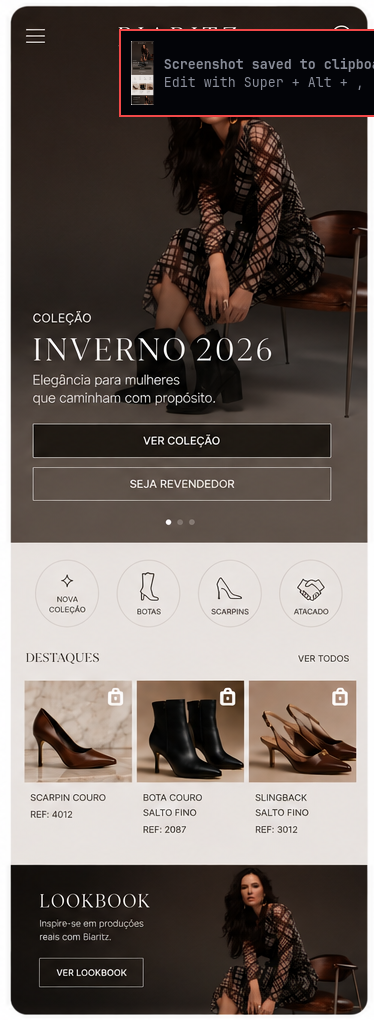
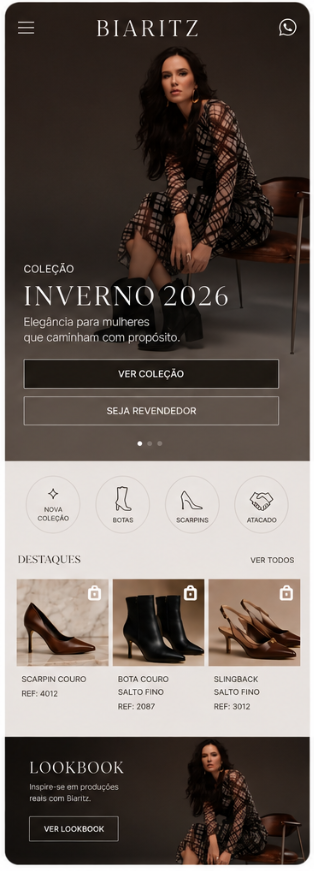
Remove footer falso do preview e unifica avisos de qualidade

Changed region(s): [[0.0, 0.0, 1.0, 1.0], [0.3726, 0.93, 0.4013, 0.961]]

diff --git a/proposta-biaritz.html b/proposta-biaritz.html
@@ -362,20 +362,12 @@
           <div class="burl">biaritz.com.br</div>
         </div>
         <img class="browser-preview" src="preview-desktop.png" alt="Prévia desktop Biaritz">
-        <div class="s-footer">
-          <span class="s-footer-logo">BIARITZ</span>
-          <div class="s-footer-links">
-            <span class="s-footer-link">Instagram</span>
-            <span class="s-footer-link">WhatsApp</span>
-            <span class="s-footer-link">Contato</span>
-          </div>
+        <div style="font-size:10px; color:var(--gold-muted); background:oklch(0.87 0.10 77 / 0.18); border:1px solid oklch(0.87 0.10 77 / 0.35); border-radius:6px; padding:7px 10px; margin-top:10px; line-height:1.5; letter-spacing:0.01em;">
+          Este é apenas um preview — não representa a qualidade final do projeto.
         </div>
       </div>
 
       <div>
-        <div style="font-size:10px; color:var(--gold-muted); background:oklch(0.87 0.10 77 / 0.18); border:1px solid oklch(0.87 0.10 77 / 0.35); border-radius:6px; padding:7px 10px; margin-bottom:10px; line-height:1.5; letter-spacing:0.01em;">
-          Imagem de teste — não representa a qualidade final do projeto.
-        </div>
         <div class="phone">
           <div class="phone-inner">
             <div class="phone-notch"><div class="phone-pill"></div></div>
@@ -383,6 +375,9 @@
           </div>
         </div>
         <div style="font-size:10px; color:var(--text-light); text-align:center; margin-top:8px; letter-spacing:0.06em;">versão mobile</div>
+        <div style="font-size:10px; color:var(--gold-muted); background:oklch(0.87 0.10 77 / 0.18); border:1px solid oklch(0.87 0.10 77 / 0.35); border-radius:6px; padding:7px 10px; margin-top:10px; line-height:1.5; letter-spacing:0.01em;">
+          Este é apenas um preview — não representa a qualidade final do projeto.
+        </div>
       </div>
     </div>
   </div>